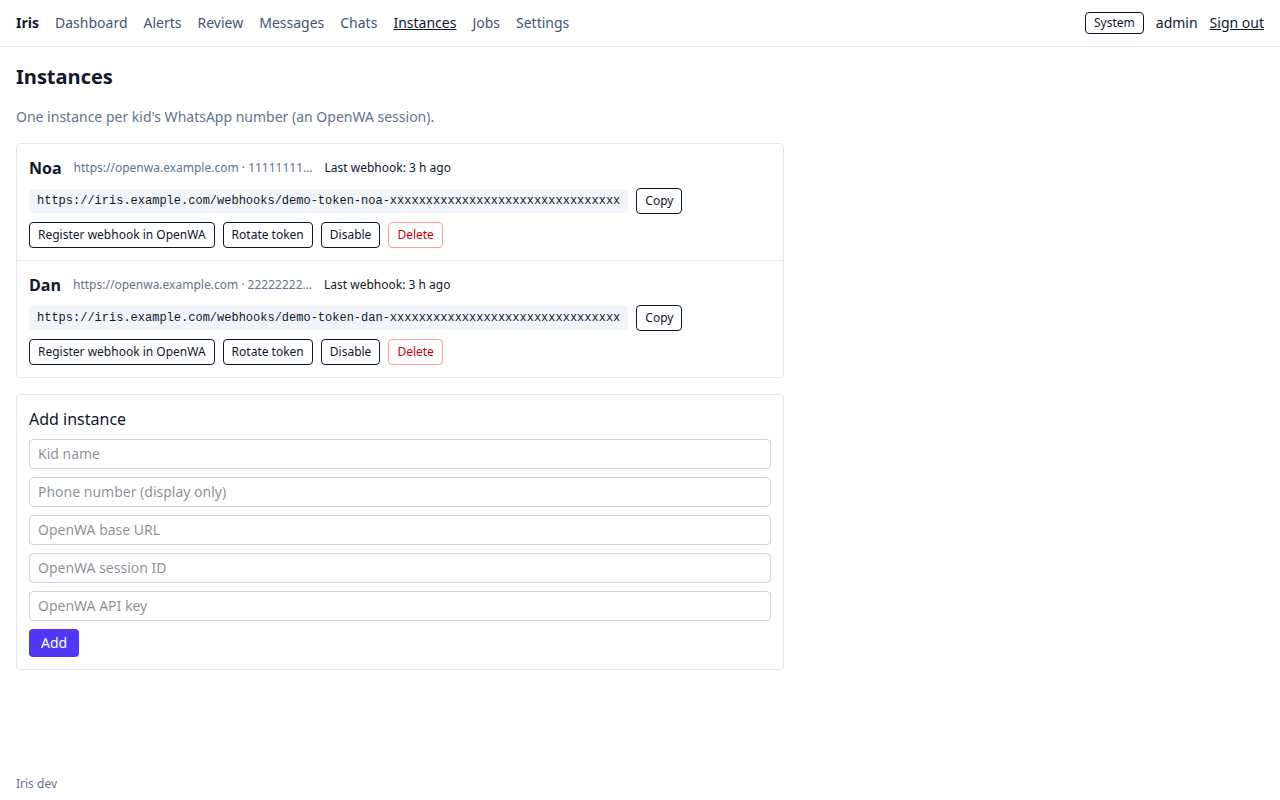
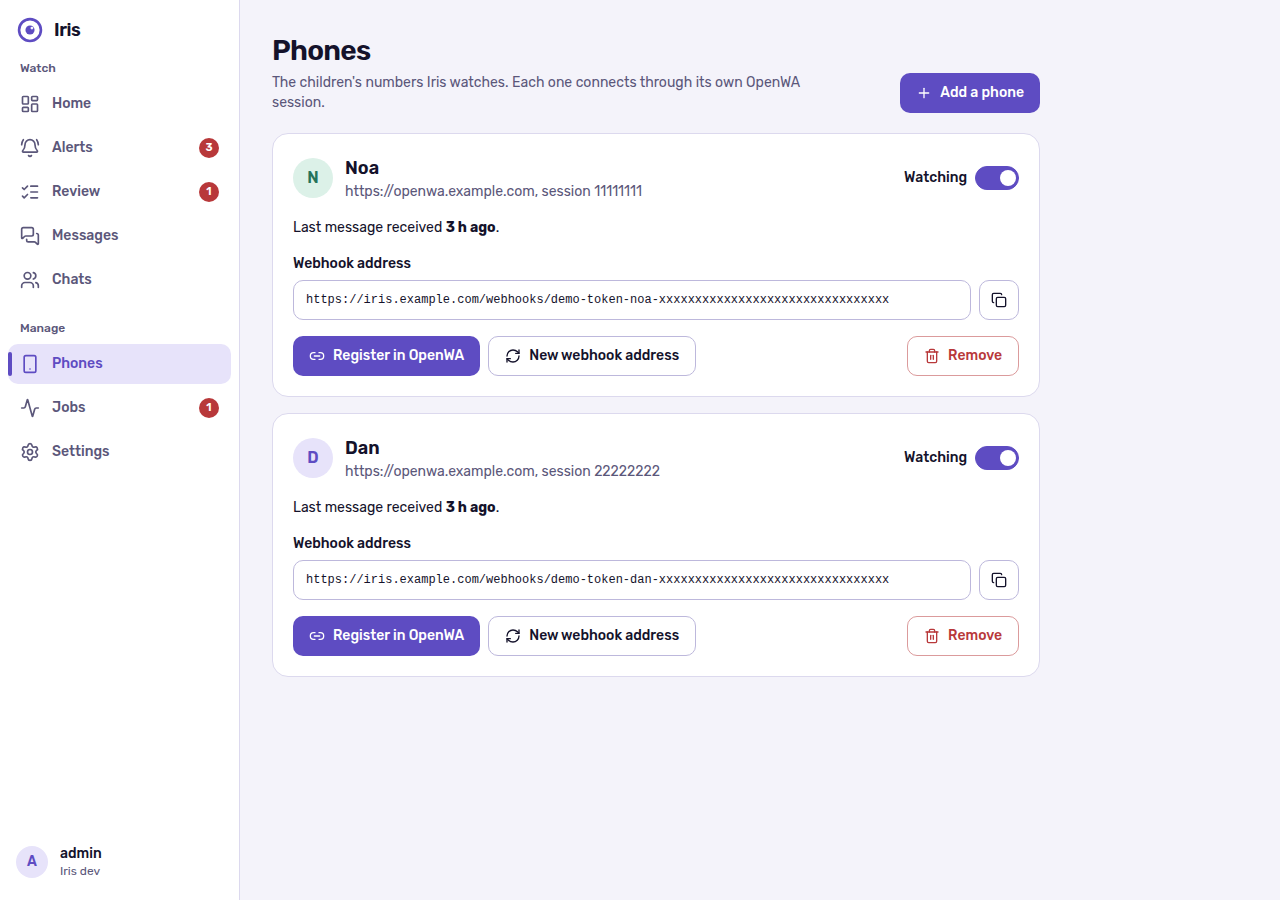
docs: refresh screenshots for the redesigned UI (desktop, dark, phone) and describe the new portal; fix rail link names and chat panel keyboard access

diff --git a/web/src/Layout.tsx b/web/src/Layout.tsx
@@ -63,7 +63,7 @@ function SideLink({ item, stats, wide }: { item: NavItem; stats?: Stats; wide: b
     <NavLink
       to={item.to}
       end={item.to === '/'}
-      aria-label={wide ? undefined : item.label}
+      aria-label={wide ? undefined : n > 0 ? `${item.label}, ${n} waiting` : item.label}
       title={wide ? undefined : item.label}
       className={({ isActive }) =>
         cn(

diff --git a/web/src/pages/MessageContext.tsx b/web/src/pages/MessageContext.tsx
@@ -82,6 +82,8 @@ export function MessageContext() {
       {!context && <Skeleton className="h-64" />}
       <ol
         ref={panel}
+        tabIndex={0}
+        aria-label="Messages in this conversation"
         className="relative flex max-h-[65dvh] flex-col gap-2 overflow-y-auto rounded-lg border bg-surface-2/50 p-3 sm:p-4"
       >
         {context?.map((m) => {

diff --git a/README.md b/README.md
@@ -43,8 +43,11 @@ container (amd64 and arm64), and uses free or low-cost models wherever possible.
   cooldown avoids floods and the next alert says how many were held back.
 - **Both sessions monitored?** A message between two monitored kids is stored once, with both kids on it, and
   produces one alert.
-- **Searchable archive** (SQLite FTS5, Hebrew and English) with filters, a chat-style context view,
-  highlighting, and a dark mode.
+- **Searchable archive** (SQLite FTS5, Hebrew and English) with filters, a chat-style context view and
+  match highlighting.
+- **A modern, responsive portal.** A sidebar on desktop, an icon rail on tablets, and a bottom tab bar on
+  phones, so an alert link opens into something you can use one-handed. Light and dark themes follow your
+  system, and the whole portal passes an automated accessibility scan (keyboard, contrast, screen readers).
 - **Sexual content safety rule.** Content involving minors, or sexual imagery, is withheld entirely: it is
   not stored, not searchable, not shown and not forwarded. The alert says to review the chat directly.
 - **Self-hosted and private.** Secrets are encrypted at rest, logs never contain message text, media is
@@ -136,9 +139,9 @@ IRIS_ADMIN_USERNAME=admin IRIS_ADMIN_PASSWORD=change-me IRIS_DATA_DIR=./data \
 
 ## Connecting OpenWA
 
-1. In the portal go to **Instances → Add instance** and enter the kid's name, your OpenWA base URL, the
+1. In the portal go to **Phones → Add a phone** and enter the child's name, your OpenWA address, the
    OpenWA **session ID** (the full UUID, not the name) and an OpenWA API key that can use that session.
-2. Click **Register webhook in OpenWA**. Iris creates a webhook for `message.received` and
+2. Click **Register in OpenWA**. Iris creates a webhook for `message.received` and
    `message.sent` and a signing secret, so deliveries are verified with an HMAC. If registration says the
    destination is not allowed, your `IRIS_PUBLIC_BASE_URL` is a private address (see Requirements).
    You can also paste the shown URL (`https://…/webhooks/<token>`) into OpenWA by hand.
@@ -149,11 +152,11 @@ IRIS_ADMIN_USERNAME=admin IRIS_ADMIN_PASSWORD=change-me IRIS_DATA_DIR=./data \
 
 ![Settings: alerts](assets/screenshots/settings-alerts.png)
 
-![Instances](assets/screenshots/instances.png)
+![Phones](assets/screenshots/instances.png)
 
-Rotating a webhook token cuts the old URL off immediately; register the webhook again afterwards. The
-**Last webhook** column shows when each number last reported in; the dashboard warns about instances that
-never have.
+**New webhook address** cuts the old URL off immediately; register the new one afterwards. Each phone shows
+when it last received a message, or **Nothing received yet**, and the Home screen flags phones that never
+have. Use the switch to pause watching a phone without removing it.
 
 ## Configuration
 
@@ -205,13 +208,23 @@ and violence (0.20 / 0.70). Iris decides from the category scores, not from the 
 
 ## Using the portal
 
+### Home
+
+![Home](assets/screenshots/dashboard.png)
+
+The **iris ring** answers the first question: all violet means all quiet; coral arcs are alerts waiting for
+you and saffron arcs are messages Iris could not decide. Below it, **Needs attention** lists everything that
+needs you or needs fixing (unread alerts, items to review, undelivered alerts, failed jobs, phones that never
+reported) with a button for each, and the **activity chart** shows 14 days of messages by verdict. Everything
+refreshes about every minute. The chart is also available as a table.
+
 ### Alerts
 
 ![Alerts](assets/screenshots/alerts.png)
 
 Each alert shows the kid, chat, sender, categories with scores, the quote and whether it was delivered. Open
-one to see the full score breakdown per stage, link to the message **in its chat context**, acknowledge or
-dismiss it, or **resend** it if delivery failed.
+one to see how Iris decided, jump to the message **in its conversation**, **mark it as seen** or **dismiss**
+it, or **send it again** if delivery failed.
 
 ![Alert detail](assets/screenshots/alert-detail.png)
 
@@ -260,10 +273,22 @@ Messages that stayed inconclusive even with the surrounding chat wait here. **Ma
 **Jobs** lists work that failed, with the reason, and a Retry button. A message that failed shows `failed`
 and its reason in the message list (it is never silently shown as pending).
 
-### Dark mode
+### On your phone
 
-The portal follows your system's light or dark preference. The button in the top bar cycles between
-**System**, **Light** and **Dark** and remembers your choice in the browser.
+The portal is built for phones first: alert links from WhatsApp open straight into it. On a phone the
+sidebar becomes a bottom tab bar (Home, Alerts, Review, Messages and a **More** sheet for Chats, Phones, Jobs,
+Settings, the theme and sign out), filters tuck behind one **Filters** button, and every control is a
+comfortable touch target.
+
+| | | |
+|---|---|---|
+| ![Home on a phone](assets/screenshots/phone-dashboard.png) | ![Alerts on a phone](assets/screenshots/phone-alerts.png) | ![The More sheet](assets/screenshots/phone-more.png) |
+| ![Filters sheet](assets/screenshots/phone-filters.png) | ![Review in dark mode](assets/screenshots/phone-review-dark.png) | |
+
+### Light and dark
+
+The portal follows your system's light or dark preference. Change it from the account menu (bottom of the
+sidebar) or the **More** sheet: **System**, **Light** or **Dark**. The choice is remembered in the browser.
 
 ![Dashboard in dark mode](assets/screenshots/dashboard-dark.png)
 
@@ -352,7 +377,7 @@ to it.
 `suppressed` by the per-chat cooldown). Check that the sender session is running, then **Resend**. The
 **Test** button under Settings → Alerts verifies the sender and recipient.
 
-**An instance shows "Last webhook: never".** OpenWA cannot reach `IRIS_PUBLIC_BASE_URL`, or the webhook was
+**A phone shows "Nothing received yet".** OpenWA cannot reach `IRIS_PUBLIC_BASE_URL`, or the webhook was
 not registered. Check the URL from the OpenWA host.
 
 **A borderline message was flagged.** Context can raise a score: a casual "you're dead meat, lol" after a
